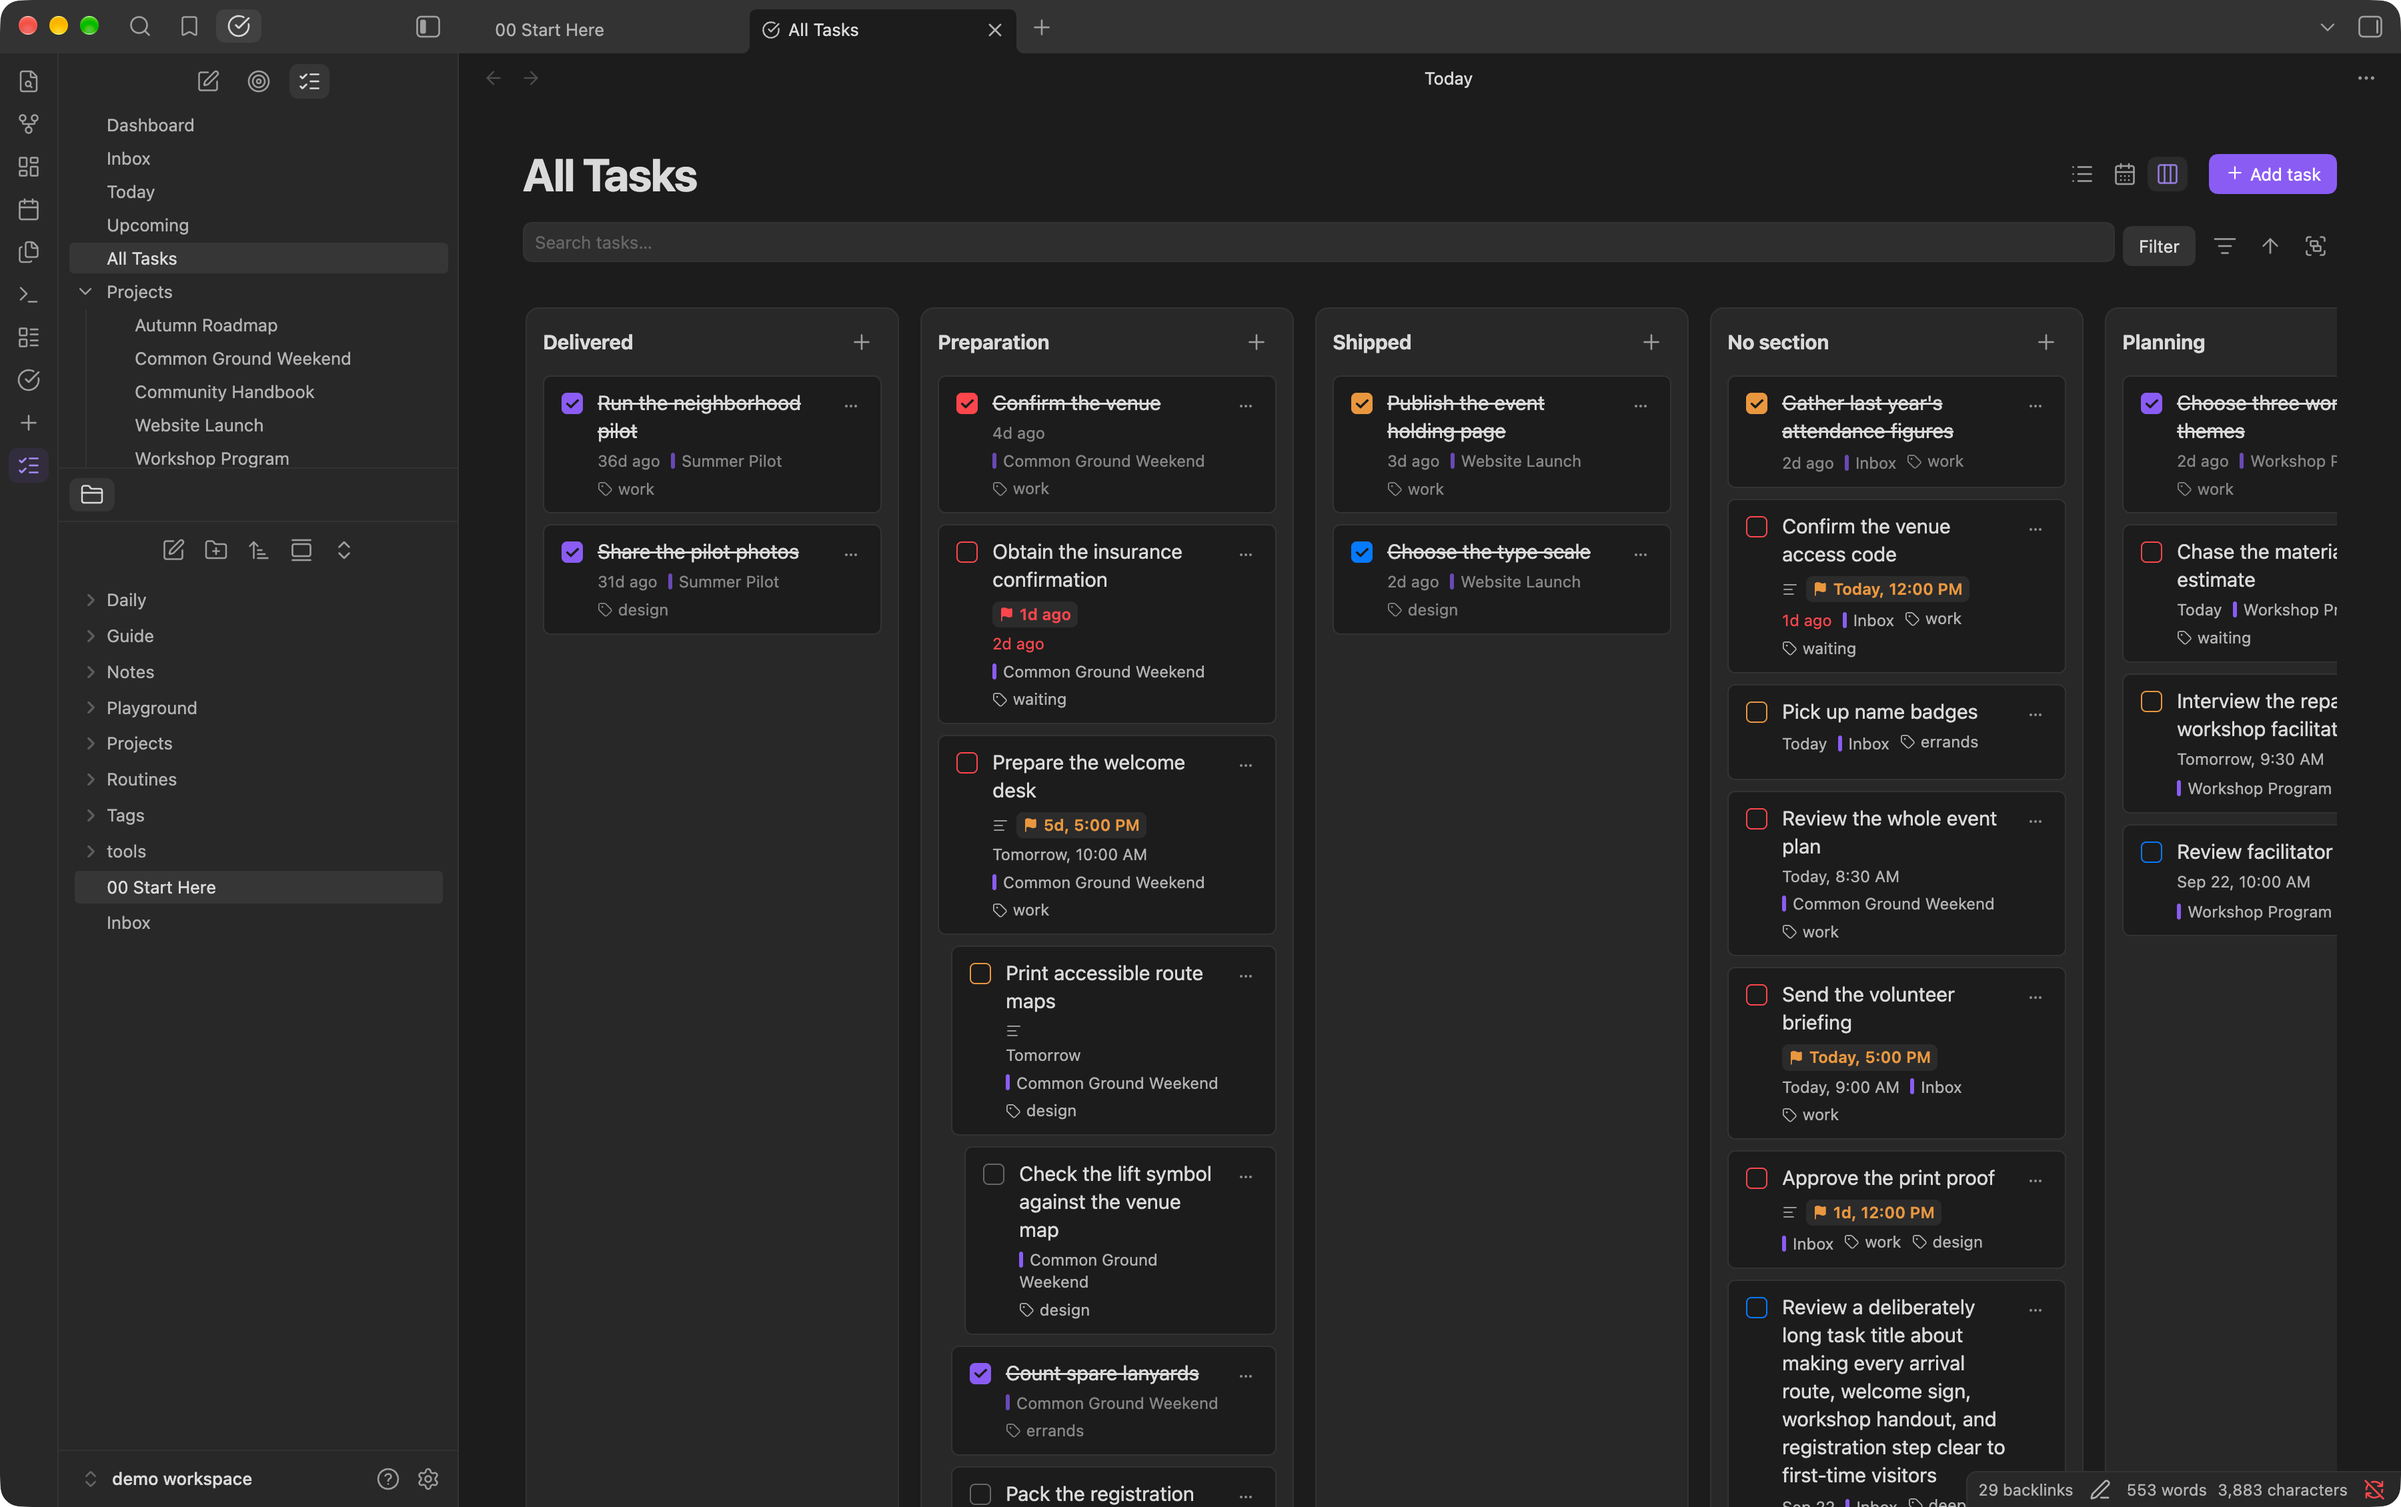
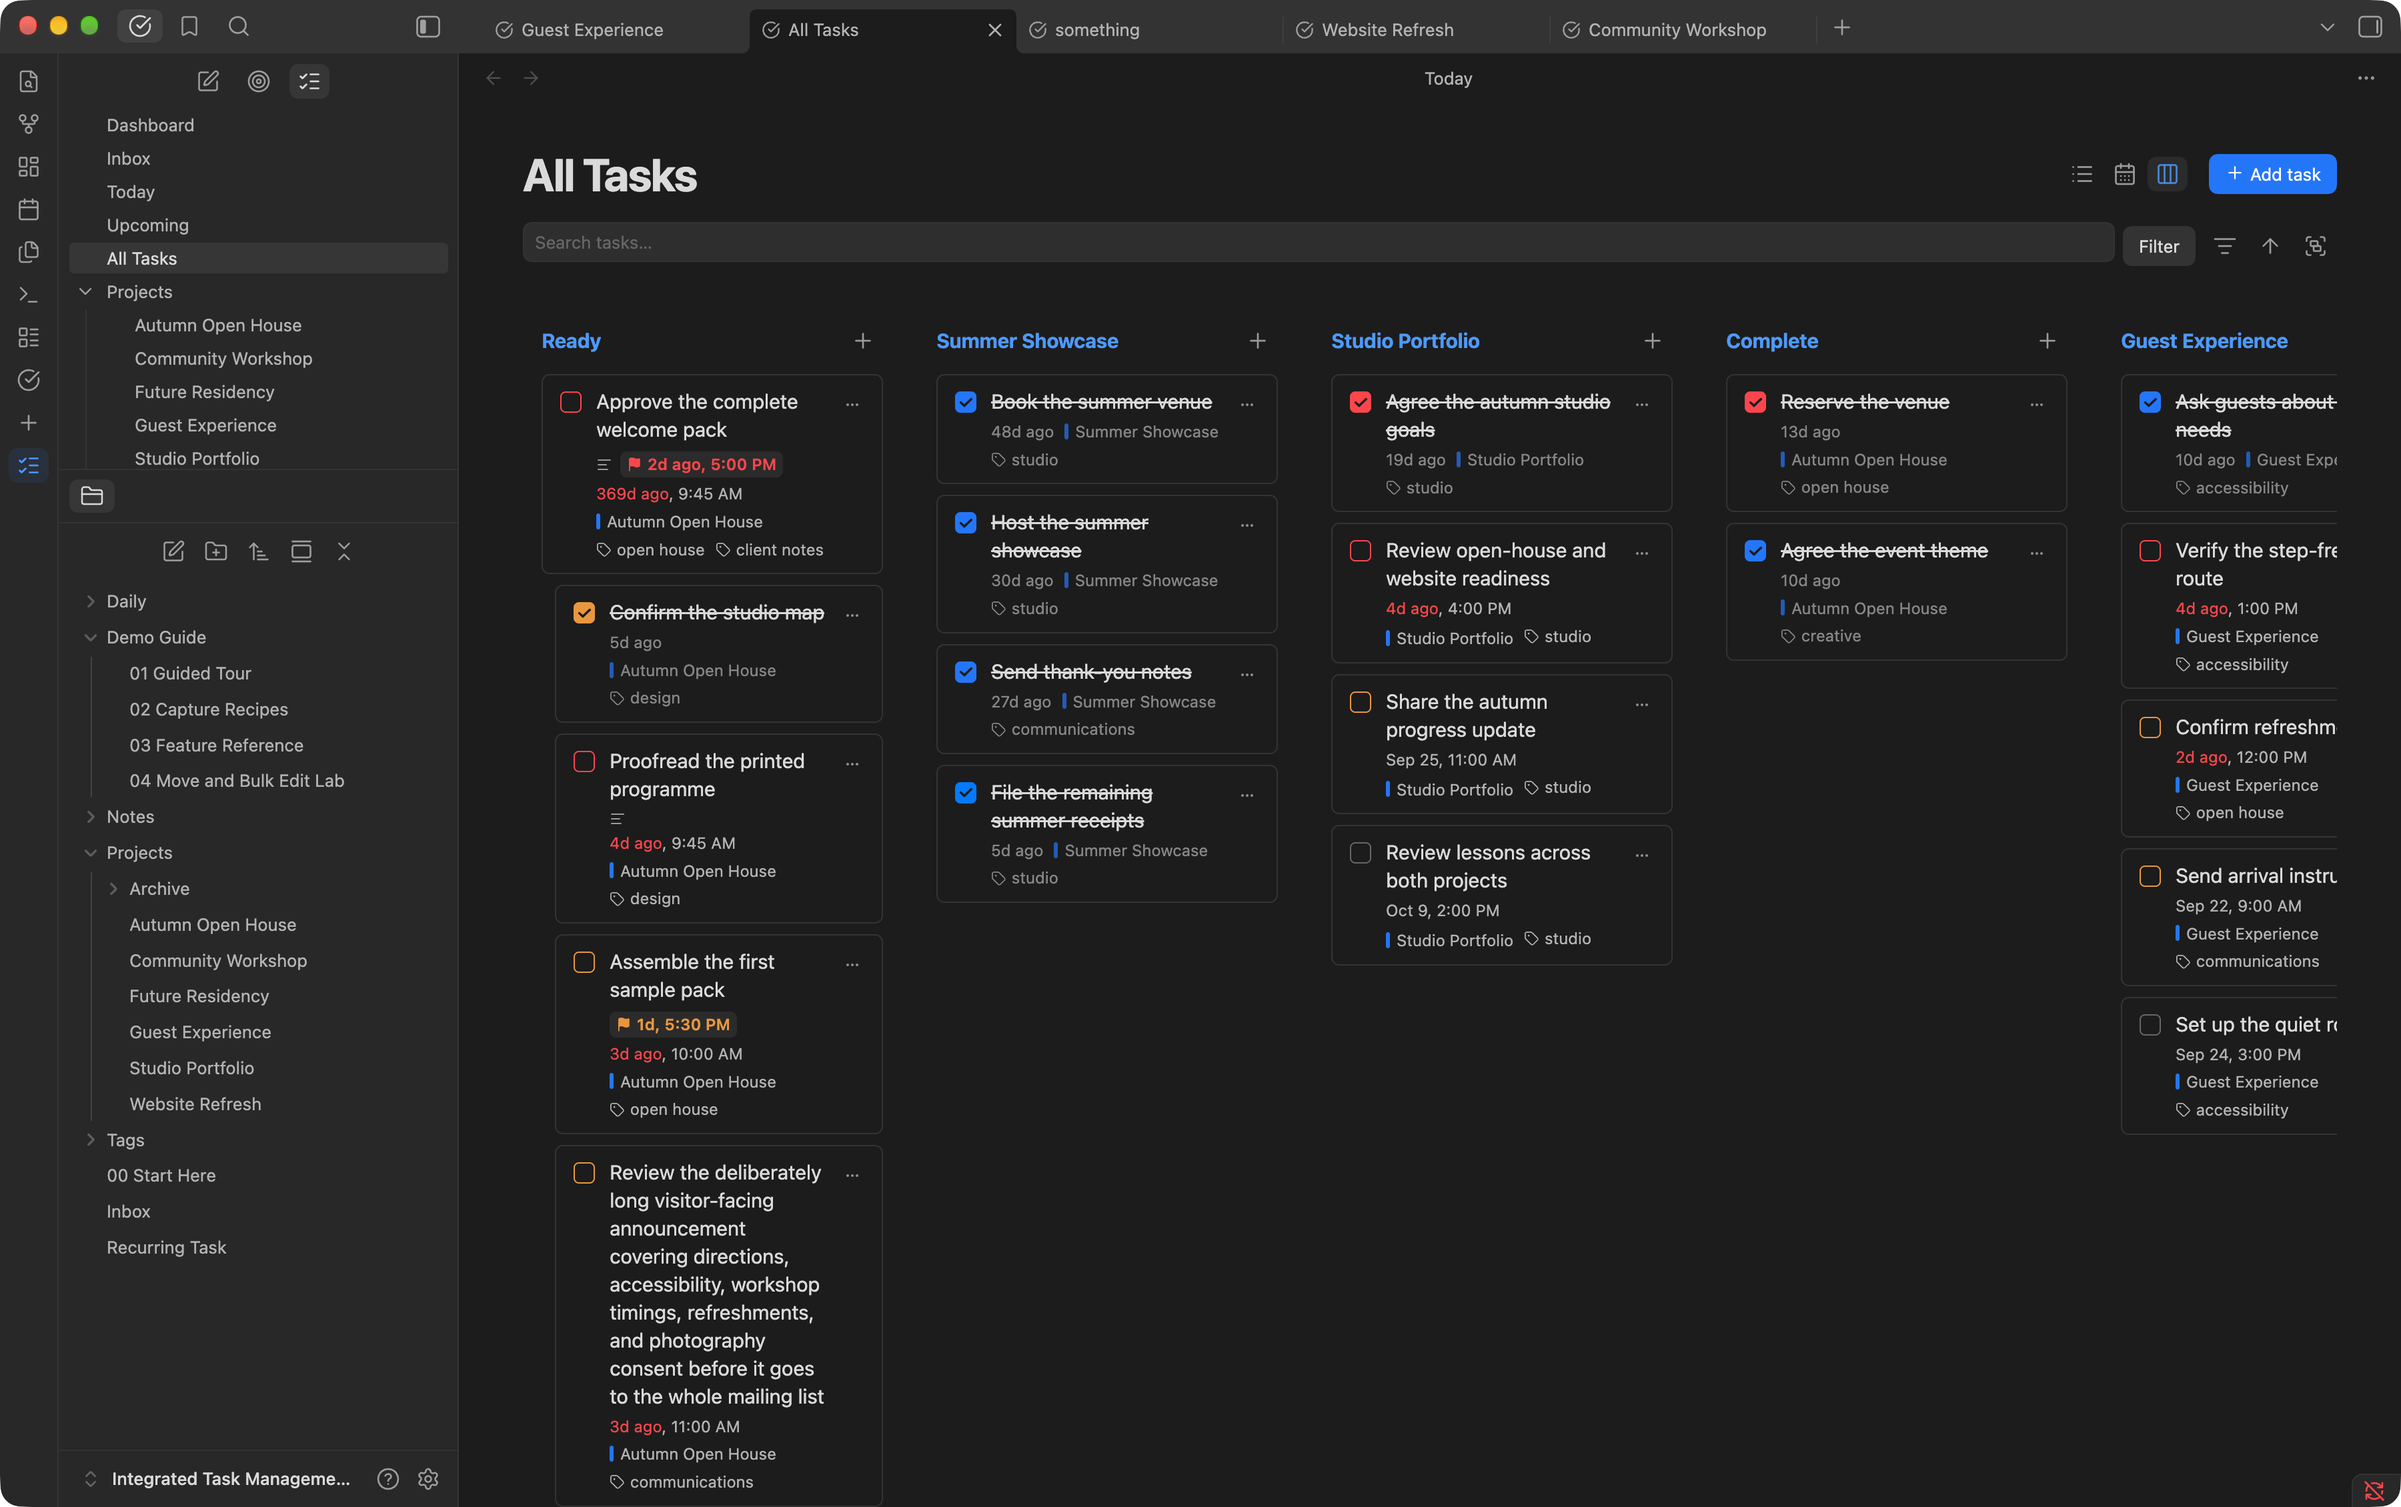
kanban: remove group background and borders. group title color: accent

diff --git a/styles.css b/styles.css
@@ -933,9 +933,9 @@ button.tm-list-drag-handle { touch-action: none; }
 .tm-layout-controls button[aria-pressed="true"] { background: var(--background-modifier-hover); color: var(--text-accent); }
 .workspace-leaf-content[data-type="task-manager-main"] .view-content.tm-main-view.is-kanban-view { max-width: none; width: 100%; }
 .tm-kanban { display: flex; align-items: stretch; gap: 16px; overflow-x: auto; padding: 4px 2px 16px; min-height: 320px; }
-.tm-kanban-column { flex: 1 0 280px; min-width: 280px; max-width: 360px; background: var(--background-secondary); border: 1px solid var(--background-modifier-border); border-radius: 10px; padding: 12px; }
+.tm-kanban-column { flex: 1 0 280px; min-width: 280px; max-width: 360px; background: transparent; border: 0; border-radius: 10px; padding: 12px; }
 .tm-kanban-column-header { display: flex; align-items: center; gap: 8px; margin-bottom: 12px; }
-.tm-kanban-column-header h2 { font-size: var(--font-ui-medium); margin: 0; overflow-wrap: anywhere; flex: 1; }
+.tm-kanban-column-header h2 { font-size: var(--font-ui-medium); color: var(--text-accent); margin: 0; overflow-wrap: anywhere; flex: 1; }
 .tm-kanban .tm-task-list { display: flex; flex-direction: column; gap: 8px; min-height: 48px; }
 .tm-kanban .tm-task-row { grid-template-columns: 24px minmax(0, 1fr) 24px; align-items: start; padding: 10px; min-height: 72px; background: var(--background-primary); border: 1px solid var(--background-modifier-border); border-radius: 6px; margin-left: min(calc(var(--tm-depth) * 10px), 30px); }
 .tm-kanban .tm-task-content { display: flex; flex-direction: column; align-items: stretch; min-width: 0; gap: 8px; text-align: left; }
